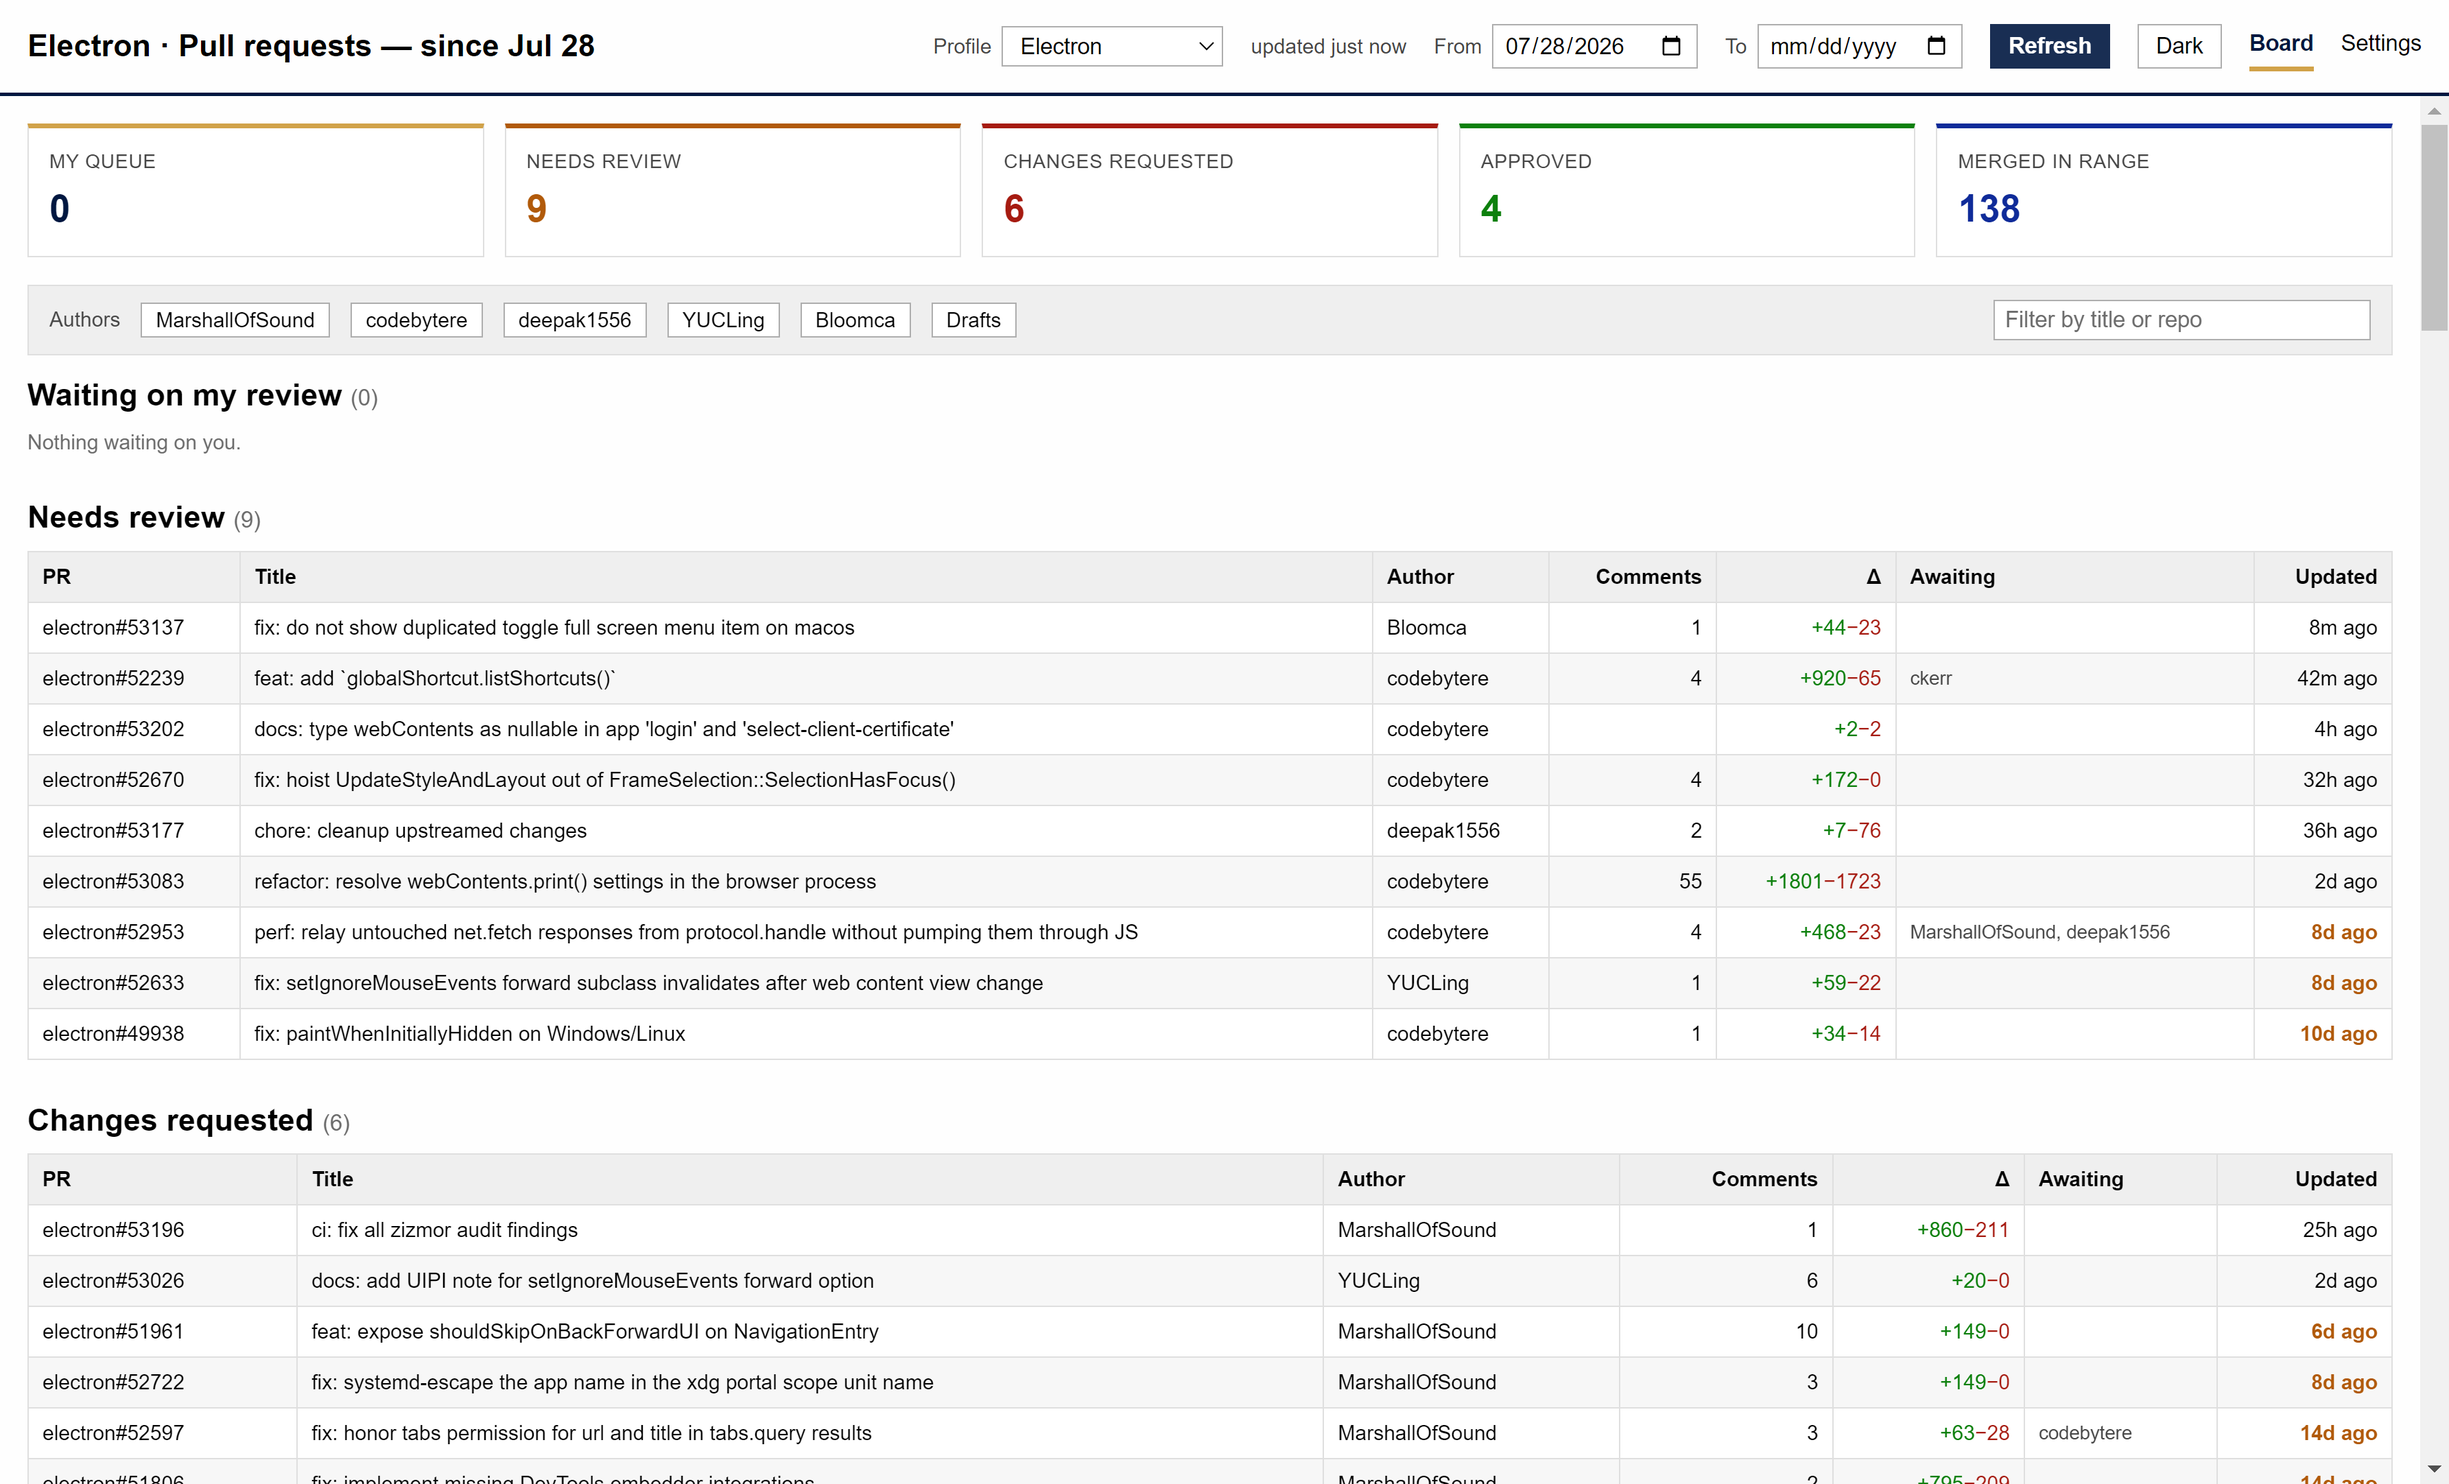
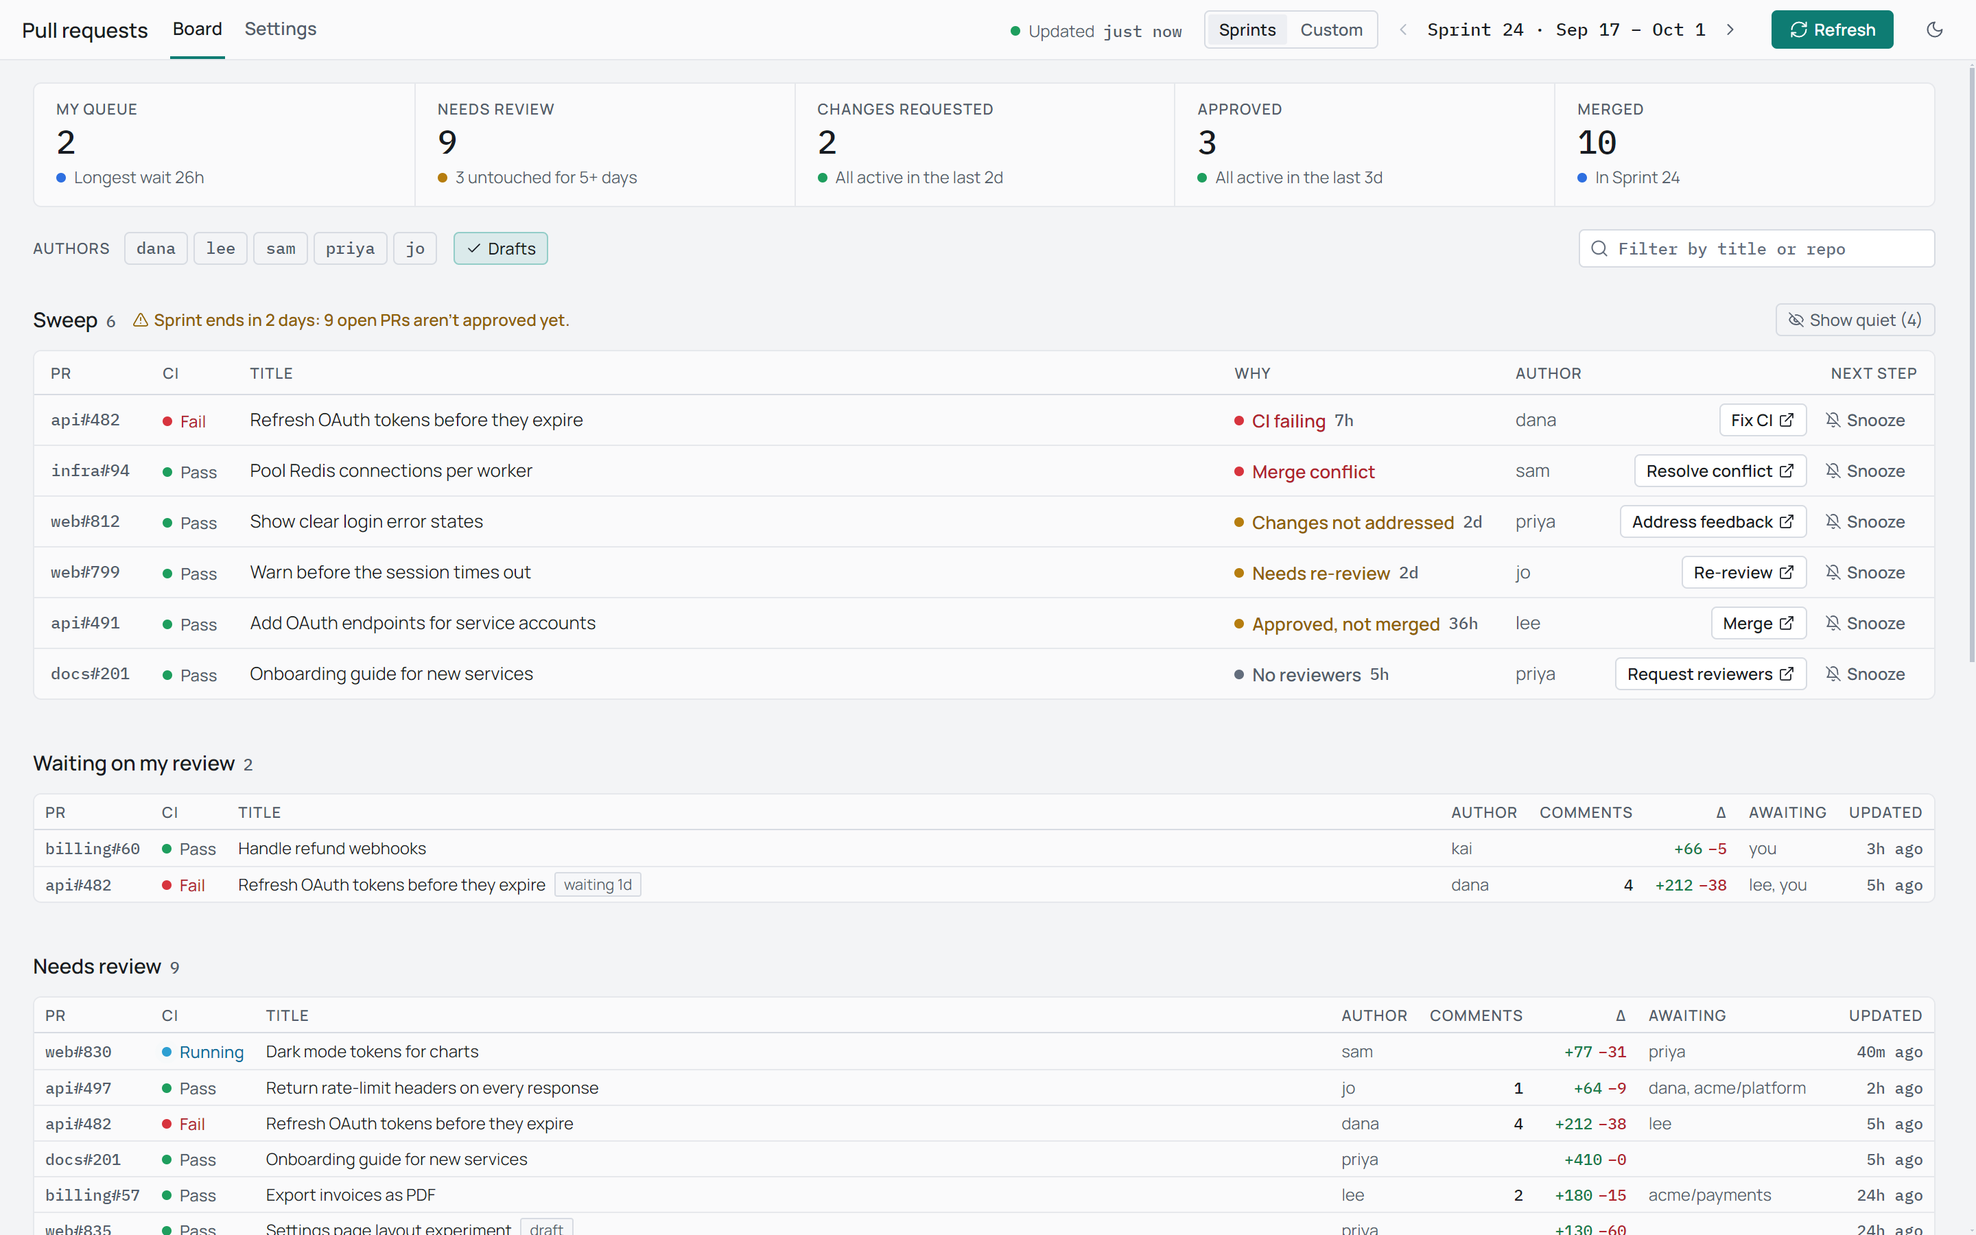
docs(readme): sprints in the features and first launch, and new screenshots

diff --git a/README.md b/README.md
@@ -16,7 +16,7 @@ long. The share of diffs waiting more than three days for review dropped 12 perc
 Most teams don't have a Nudgebot. Their stuck PRs are spread across a dozen repos, and GitHub's
 own dashboard shows what's waiting on *you*, not on the team. PR Sweep puts the whole team's PRs
 on one board, sorted by GitHub's own review state, so nobody maintains labels or a project board.
-Set the org, the team and the sprint's dates once. It refreshes every five minutes from the tray.
+Set the org, the team and your sprint schedule once. It refreshes every five minutes from the tray.
 
 > **Status:** v0.11, in daily use. Windows and Linux builds are on [Releases](../../releases) and
 > update themselves. Next is a sprint summary with a standup you can paste into chat. See
@@ -24,7 +24,7 @@ Set the org, the team and the sprint's dates once. It refreshes every five minut
 
 <picture>
   <source media="(prefers-color-scheme: dark)" srcset="docs/screenshots/board-dark.png">
-  <img alt="The board for the electron org: counts for My queue, Needs review, Changes requested, Approved and Merged in range, author filter chips, then one table per section with each PR's title, author, comments, size, pending reviewers and last update" src="docs/screenshots/board.png">
+  <img alt="The board for a sample team in Sprint 24: a strip of counts for My queue, Needs review, Changes requested, Approved and Merged, author filter chips, the Sweep listing each stuck PR with its CI status, why it's stuck, for how long and a next-step button, then a table per section" src="docs/screenshots/board.png">
 </picture>
 
 ## Install
@@ -51,7 +51,9 @@ Grab a build from [Releases](../../releases).
      SAML SSO, choose **Configure SSO** on the token and authorize the org. An unauthorized token
      gets empty results instead of errors, so PR Sweep checks for this and tells you.
 3. In Settings, add your team's GitHub logins. Leave the list empty to see the whole org.
-4. Set the sprint's From and To dates in the header. Leave To empty for an open-ended view.
+4. In Settings, under **Sprints**, set when your first sprint starts and how long sprints run.
+   The board then opens on the current sprint. No sprints? Choose **Custom** in the top bar and
+   set From and To dates instead. Leave To empty for an open-ended view.
 
 > **Private orgs:** the first time someone signs in to an org that restricts third-party OAuth
 > apps, GitHub asks them to **request access to `<org>`**. An org owner approves the app once,
@@ -66,7 +68,10 @@ Grab a build from [Releases](../../releases).
   step. PRs that are only waiting or stale, or untouched for a month, sit behind a toggle, and
   you can snooze a row until it changes or tomorrow. In a sprint's last two days, it also says how
   many open PRs aren't approved yet.
-- **Sorts** every open PR your team has, plus what merged in the date range, into Needs review,
+- **Knows your sprint.** Give it the first sprint's start and the sprint length, and the board
+  opens on the current sprint, moves on when it ends, and steps back and forward with the arrows.
+  Rename a sprint or make one longer, and the sprints after it follow.
+- **Sorts** every open PR your team has, plus what merged in the sprint, into Needs review,
   Changes requested, Approved and Merged, from GitHub's `reviewDecision`. There are no labels to
   keep up.
 - **Queues** the open PRs anywhere in the org that are waiting on *your* review, with how long
@@ -76,7 +81,7 @@ Grab a build from [Releases](../../releases).
 - **Notifies** from the tray when a PR lands in your queue, or when one of yours is approved, gets
   changes requested or starts failing CI. The tray menu also counts what the Sweep has for the
   team. Closing the window keeps it watching.
-- **Shares** a setup. Save org, team and date-range profiles, then export them as JSON for
+- **Shares** a setup. Save org, team and sprint profiles, then export them as JSON for
   teammates to import. Tokens are never exported.
 - **Opens instantly.** The last sweep is cached on disk, so the board appears at once and
   refreshes in the background.
